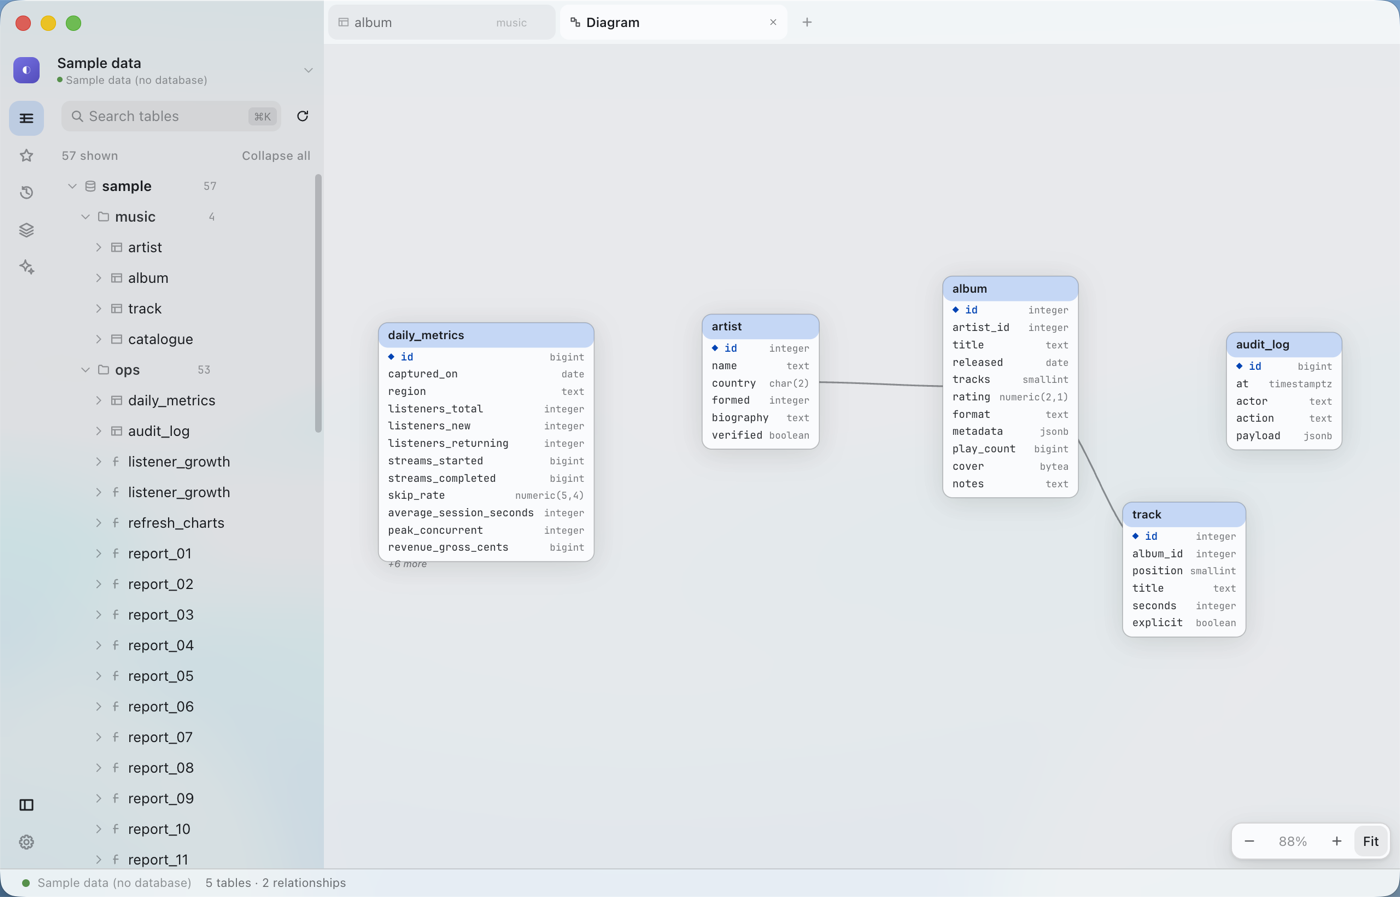
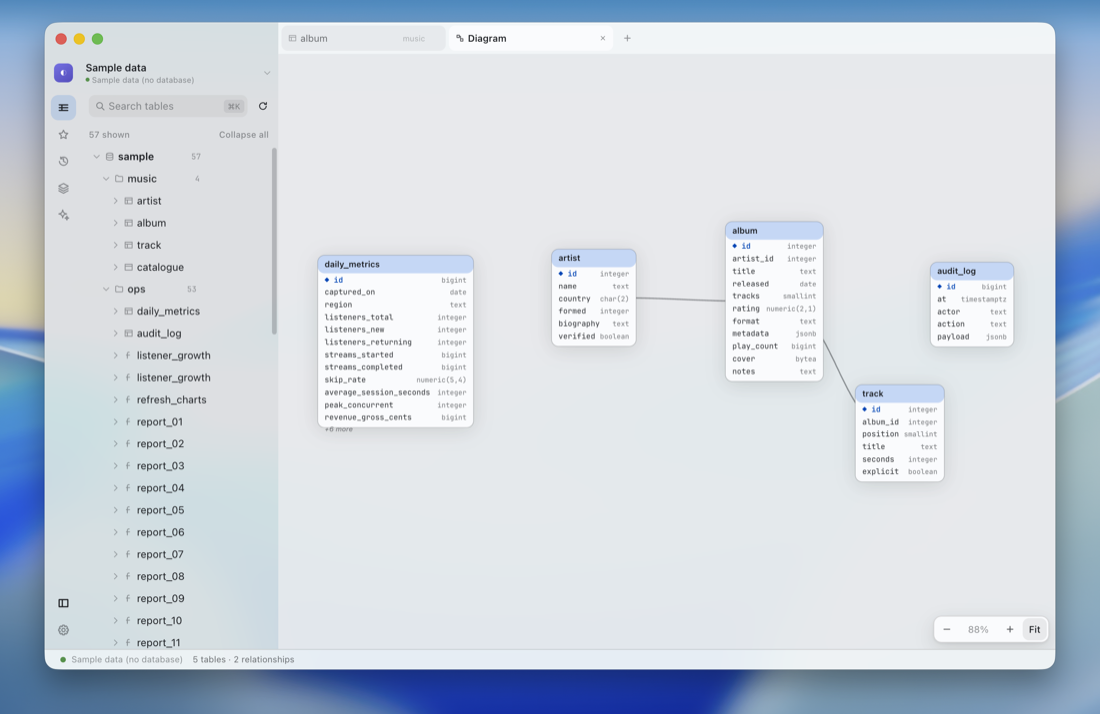
docs(readme): make "What it looks like" a wall of the real window
One screenshot under a heading is a caption; four in a grid is the
section. The wall is the assistant answering a question, the diagram,
the query editor with a dispatched job finishing, and the start screen
in the dark theme — each the real window with its shadow on a desktop,
so the material showing through the rail and the sidebar is visible
rather than described.

A table rather than anything nicer, because GitHub strips CSS from a
README and a table is the one layout primitive that survives it. Two
columns, four cells, a line under each saying what it is.

Claude-Session: https://claude.ai/code/session_01BJQfPY8bhciixN8jcVU8qj

diff --git a/README.md b/README.md
@@ -137,13 +137,32 @@ the window.
 
 ## What it looks like
 
-<p align="center">
-  <img src="docs/diagram.png" alt="The entity-relationship diagram of the sample database" width="900" />
-</p>
-
-<p align="center">
-  <img src="docs/start-dark.png" alt="The start screen in the dark theme" width="900" />
-</p>
+<table>
+  <tr>
+    <td width="50%" valign="top">
+      <img src="docs/assistant.png" alt="The assistant answering a question about the sample database" width="100%" />
+      <br />
+      <sub><b>Ask.</b> It reads the schema, runs read-only queries to check itself, and shows the rows it got back. The statement is one click from a tab of its own.</sub>
+    </td>
+    <td width="50%" valign="top">
+      <img src="docs/diagram.png" alt="An entity-relationship diagram of the sample database" width="100%" />
+      <br />
+      <sub><b>Diagram.</b> Every relationship in the database, laid out, draggable, and remembering where you put things.</sub>
+    </td>
+  </tr>
+  <tr>
+    <td width="50%" valign="top">
+      <img src="docs/query.png" alt="The query editor, with a dispatched job finishing" width="100%" />
+      <br />
+      <sub><b>Query.</b> Completion from the schema, run-all or run-current, and long statements dispatched to finish on their own.</sub>
+    </td>
+    <td width="50%" valign="top">
+      <img src="docs/start-dark.png" alt="The start screen in the dark theme" width="100%" />
+      <br />
+      <sub><b>Start.</b> Paste a connection URL and it fills in the form — or open the sample database and nothing is saved.</sub>
+    </td>
+  </tr>
+</table>
 
 Light and dark, an accent colour you pick, and three density settings for how
 much fits on screen. English, 日本語, 简体中文, 한국어 and Tiếng Việt, following the
